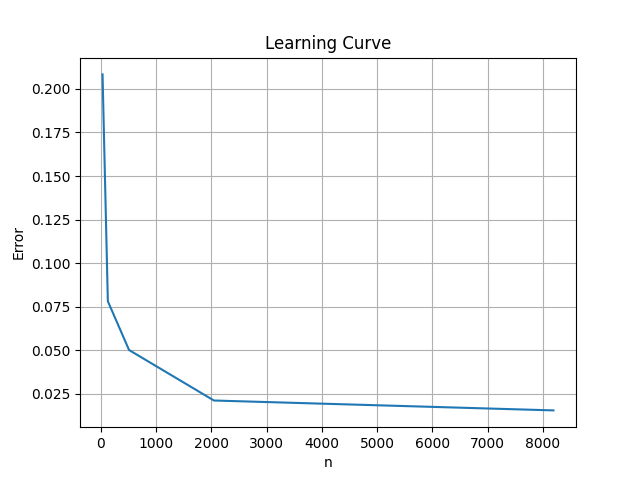
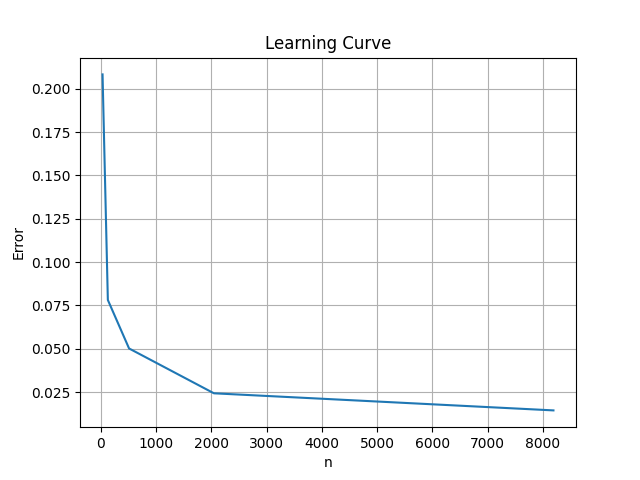
first commit

diff --git a/HW2/decision_tree.py b/HW2/decision_tree.py
@@ -1,0 +1,195 @@
+import numpy as np
+import matplotlib.pyplot as plt
+
+
+def CalculateProb(dataset, n):
+    prob1 = 0
+    for d in dataset:
+        if d == 1:
+            prob1 += 1
+    prob0 = n - prob1
+    return prob0, prob1
+
+
+def EntropyFormula(p1, p2):
+    return - p1 * np.log2(p1) - p2 * np.log(p2)
+
+
+def CalculateEntropy(dataset):
+    n = len(dataset)
+    prob = CalculateProb(dataset, n)
+
+    if prob[0] != 0 and prob[1] != 0:
+        p0 = prob[0] / n
+        p1 = prob[1] / n
+        return EntropyFormula(p1, p0)
+    else:
+        return 0
+
+
+def randomData(dataset):
+    np.random.seed(2)
+    np.random.shuffle(dataset)
+    D8192 = dataset[0:8191]
+    D2048 = D8192[0:2047]
+    D512 = D2048[0:511]
+    D128 = D512[0:127]
+    D32 = D128[0:31]
+
+    return D8192, D2048, D512, D128, D32
+
+
+# def CalculateError(dataset, tree):
+#     predictions = []
+#     err = 0
+#     for i in range(0, len(dataset)):
+#         predict = Prediction(tree, dataset[i])
+#         predictions.append(predict)
+#         if predict != dataset[i]:
+#             err = err + 1
+#
+#     n = CalculateNodeNumber(tree)
+#     return n, err, predictions
+
+
+def SubTree(dataset):
+    cns_gain_ratio = 0
+    cns_entropy = 1
+    sub_tree = set
+    column = set
+    dat = set
+
+    number_of_features = dataset.shape[1] - 1
+
+    for i in range(0, number_of_features):
+        feature_data = dataset[:, i]
+        for data in feature_data:
+            right, left = SplitTree(dataset, data, i)
+            gain_ratio = CalculateGainRatio(dataset, right, left)
+
+            entropy = max(CalculateEntropy(left[:, -1]), CalculateEntropy(right[:, -1]))
+            # need recommend for # Q 2.3
+            # print("Info Gain Ratio: {}  Entropy: {}  Info Gain: {}".format(gain_ratio, entropy, gain_ratio*entropy))
+            if entropy < cns_entropy:
+                cns_entropy = entropy
+
+            if gain_ratio > cns_gain_ratio:
+                cns_gain_ratio = gain_ratio
+                column = ("column", i)
+                dat = ("data", data)
+                sub_tree = (column, dat)
+                column = ()
+                dat = ()
+
+    return cns_gain_ratio, cns_entropy, sub_tree
+
+
+def MakeTree(dataset):
+    # base case
+    if len(dataset) == 0:
+        return None
+
+    result = SubTree(dataset)
+
+    sub_tree = result[2]
+
+    # print('data: {}  gain ratio: {}'.format(1, result[1]))
+
+    if result[0] == 0 or result[1] == 1:
+        data = dataset[:, -1]
+        datum = {}
+        for d in data:
+            if d not in datum.keys():
+                datum[d] = 0
+            datum[d] += 1
+        return max(datum, key=datum.get)
+
+    right, left = SplitTree(dataset, sub_tree[1][1], sub_tree[0][1])
+
+    return {sub_tree: (MakeTree(left), MakeTree(right))}
+
+
+def CalculateGainRatio(dataset, right, left):
+    ln = len(left)
+    rn = len(right)
+    dn = len(dataset)
+
+    # base case
+    if rn == 0 or ln == 0:
+        return 0
+
+    else:
+        num_left = ln / dn
+        num_right = rn / dn
+
+        info_gain = CalculateEntropy(dataset[:, -1]) - (num_left * CalculateEntropy(left[:, -1]) +
+                                                        num_right * CalculateEntropy(right[:, -1]))
+        entropy = EntropyFormula(num_left, num_right)
+
+        return info_gain / entropy
+
+
+def SplitTree(dataset, data, index):
+
+    return dataset[dataset[:, index] < data], dataset[dataset[:, index] >= data]
+
+
+def plot(data, name):
+    x1 = data[:, 0]
+    x2 = data[:, 1]
+    label = data[:, 2]
+    plt.scatter(x1, x2, c=2 * label - 1)
+    # plt.title('D1.txt Decision Boundary')
+    file_name = "plot/DecisionTree{}.png".format(name)
+    plt.savefig(file_name)
+    plt.show()
+
+
+# Q 2.2
+print("Q 2.2")
+arr = [[0, 0, 0], [0, 1, 1], [1, 0, 1], [1, 1, 0]]
+arr = np.array(arr)
+# MakeTree(arr)
+
+# Q 2.3
+print("\nQ 2.3")
+filepath = "data/Druns.txt"
+dataset = np.loadtxt(filepath, delimiter=" ")
+# MakeTree(dataset)
+
+# Q 2.4
+print("\nQ 2.4")
+filepath = "data/D3leaves.txt"
+dataset = np.loadtxt(filepath, delimiter=" ")
+# MakeTree(dataset)
+
+
+# Q 2.5
+print("\nQ 2.5")
+filepath = "data/D1.txt"
+D1 = np.loadtxt(filepath, delimiter=" ")
+# MakeTree(D1)
+
+filepath = "data/D2.txt"
+D2 = np.loadtxt(filepath, delimiter=" ")
+# MakeTree(D2)
+
+
+# Q 2.6
+print("\nQ 2.6")
+# plot(D1, "D1")
+# plot(D2, "D2")
+
+
+# Q 2.7
+print("\nQ 2.7")
+filepath = "data/Dbig.txt"
+Dbig = np.loadtxt(filepath, delimiter=" ")
+result = randomData(Dbig)
+
+# ans = CalculateError(result[3], tree)
+# print(ans[0], ans[1], ans[2])
+
+
+
+

diff --git a/HW2/sklearn_decision_tree.py b/HW2/sklearn_decision_tree.py
@@ -4,13 +4,10 @@ import numpy as np
 import matplotlib.pyplot as plt
 
 
-def DecisionTree(train_x, train_y, test_x, test_y):
-    clf = DecisionTreeClassifier(random_state=760)
+def DecisionTree(train_x, train_y, test_x, test_y, rng):
+    clf = DecisionTreeClassifier(random_state=rng)
     fit = clf.fit(train_x, train_y)
-    n = fit.tree_.node_count
-    err = 1 - fit.score(test_x, test_y)
-
-    return n, err
+    return fit.tree_.node_count, 1 - fit.score(test_x, test_y)
 
 
 filepath = "data/Dbig.txt"
@@ -29,23 +26,23 @@ D32_x, test32_x, D32_y, test32_y = train_test_split(D128_x, D128_y, train_size=3
 number_of_node = []
 err = []
 
-r8192 = DecisionTree(D8192_x, D8192_y, test8192_x, test8192_y)
+r8192 = DecisionTree(D8192_x, D8192_y, test8192_x, test8192_y, rng)
 number_of_node.append(r8192[0])
 err.append(r8192[1])
 
-r2048 = DecisionTree(D2048_x, D2048_y, test2048_x, test2048_y)
+r2048 = DecisionTree(D2048_x, D2048_y, test2048_x, test2048_y, rng)
 number_of_node.append(r2048[0])
 err.append(r2048[1])
 
-r512 = DecisionTree(D512_x, D512_y, test512_x, test512_y)
+r512 = DecisionTree(D512_x, D512_y, test512_x, test512_y, rng)
 number_of_node.append(r512[0])
 err.append(r512[1])
 
-r128 = DecisionTree(D128_x, D128_y, test128_x, test128_y)
+r128 = DecisionTree(D128_x, D128_y, test128_x, test128_y, rng)
 number_of_node.append(r128[0])
 err.append(r128[1])
 
-r32 = DecisionTree(D32_x, D32_y, test32_x, test32_y)
+r32 = DecisionTree(D32_x, D32_y, test32_x, test32_y, rng)
 number_of_node.append(r32[0])
 err.append(r32[1])
 
